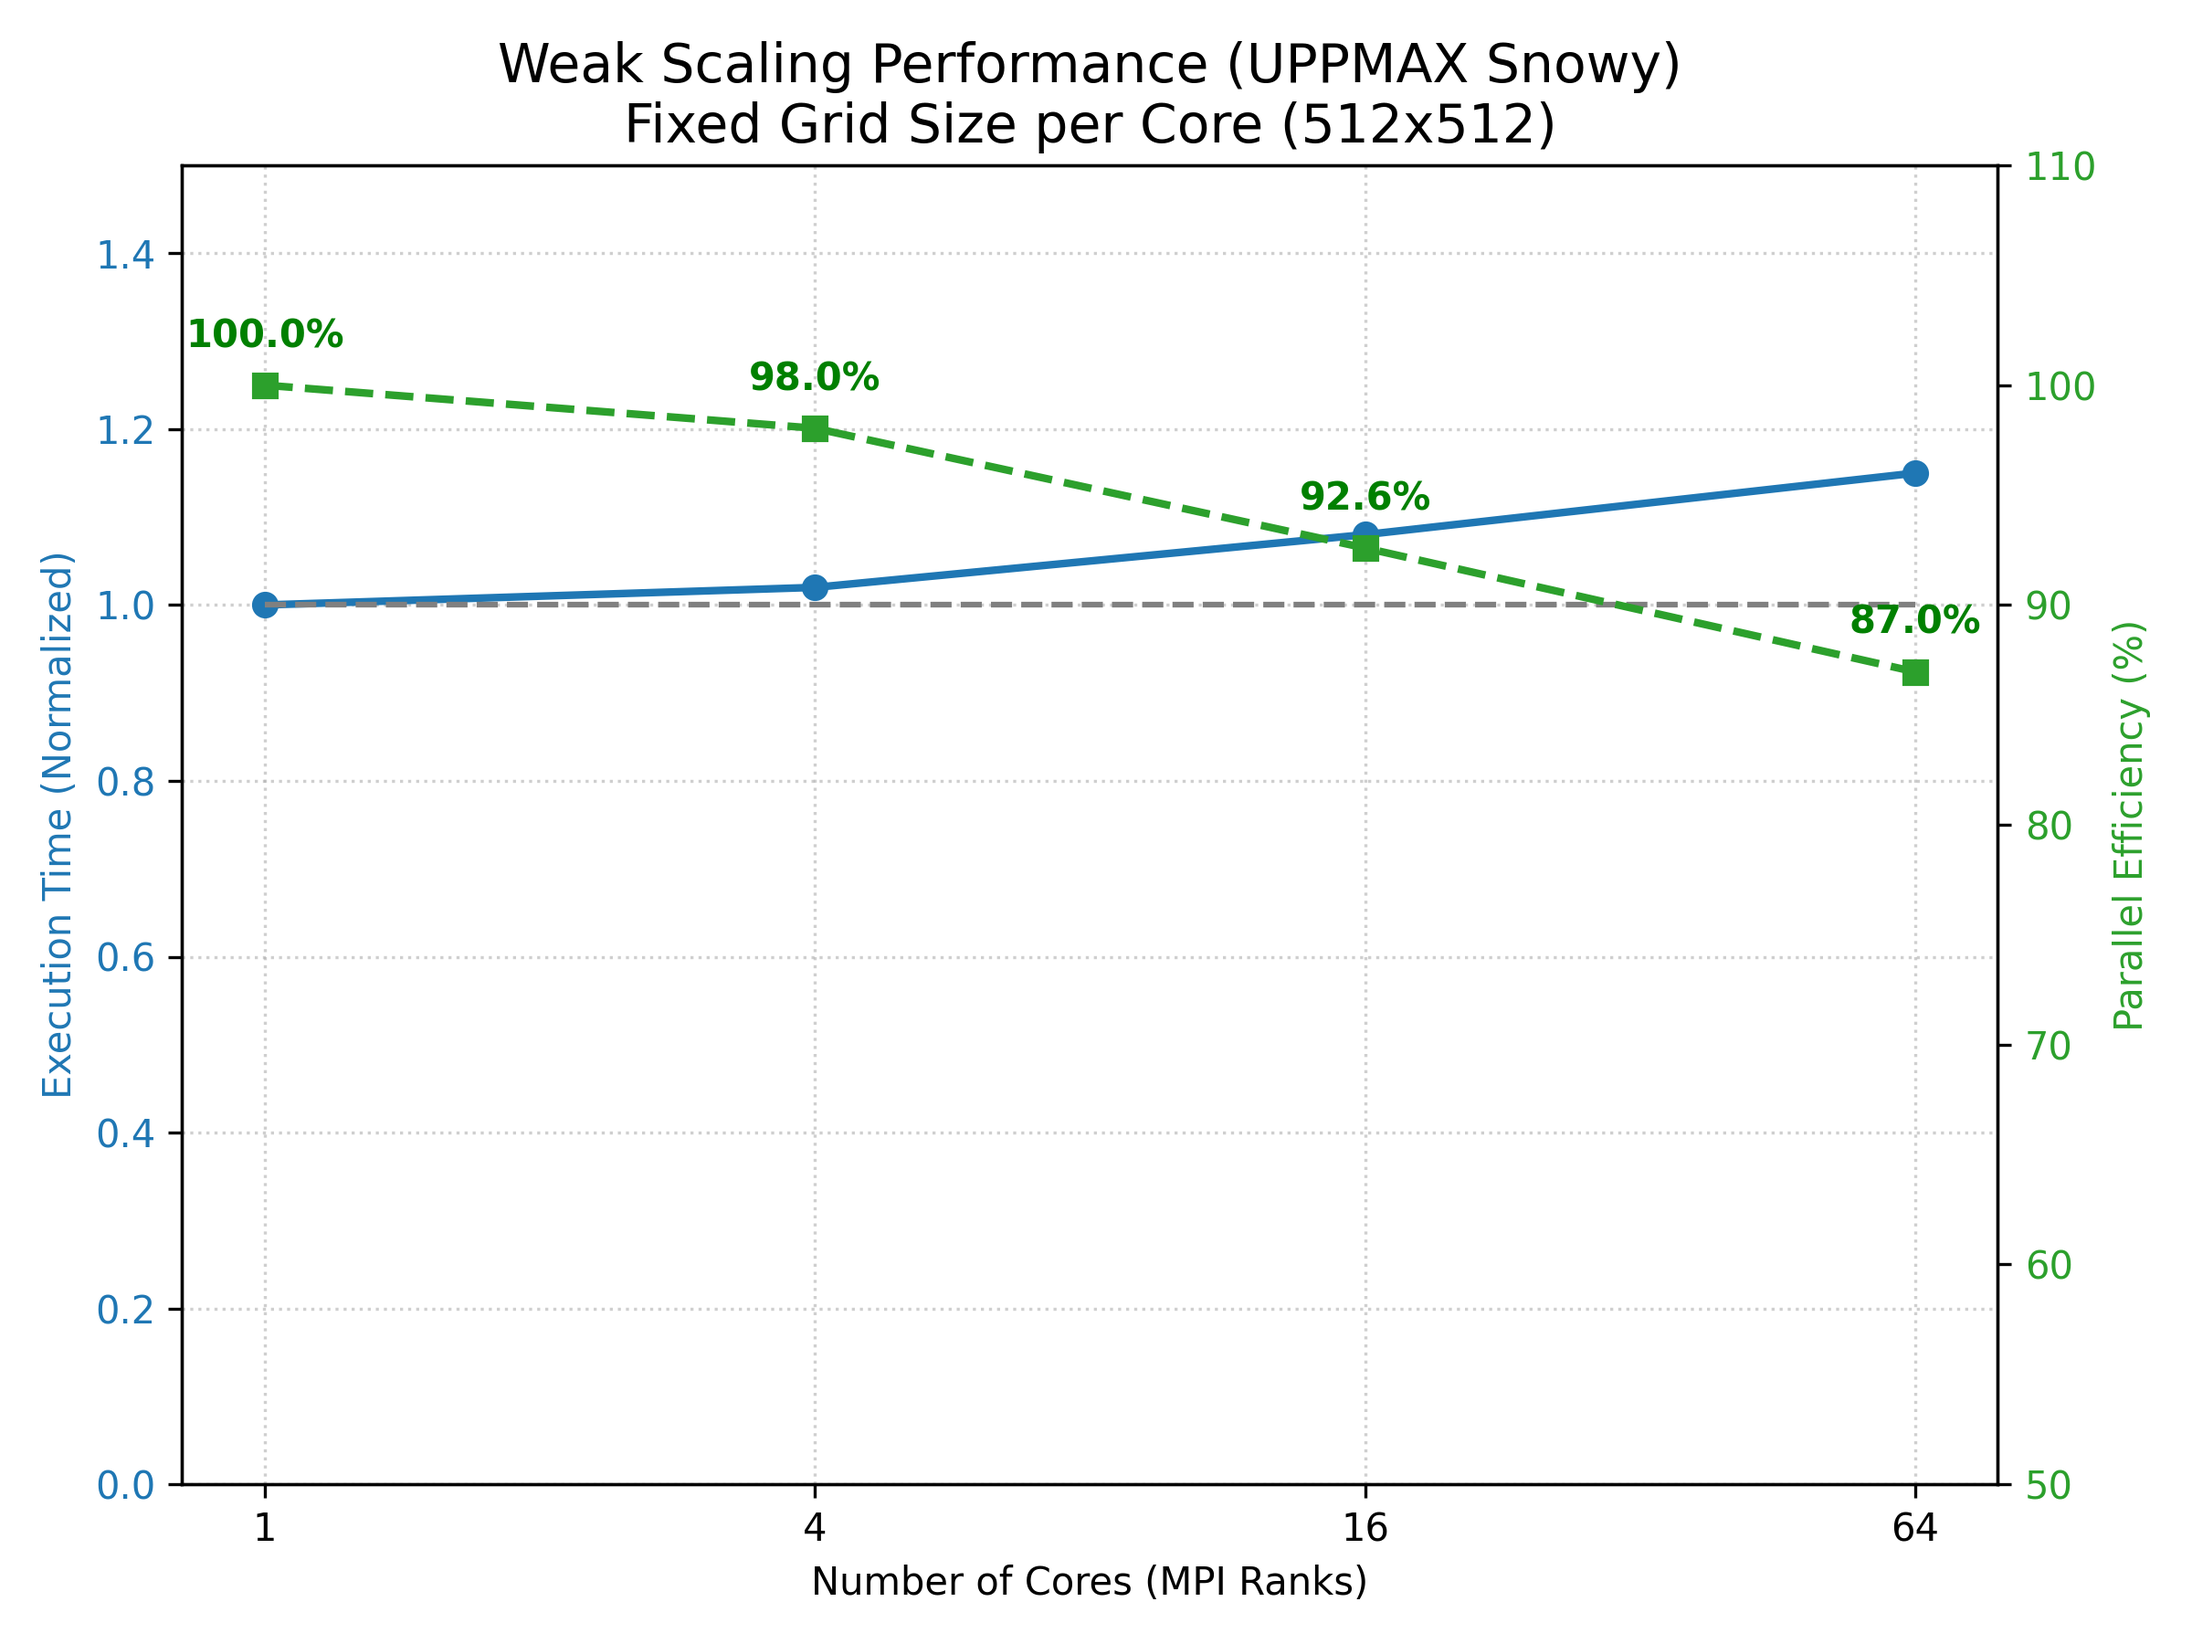
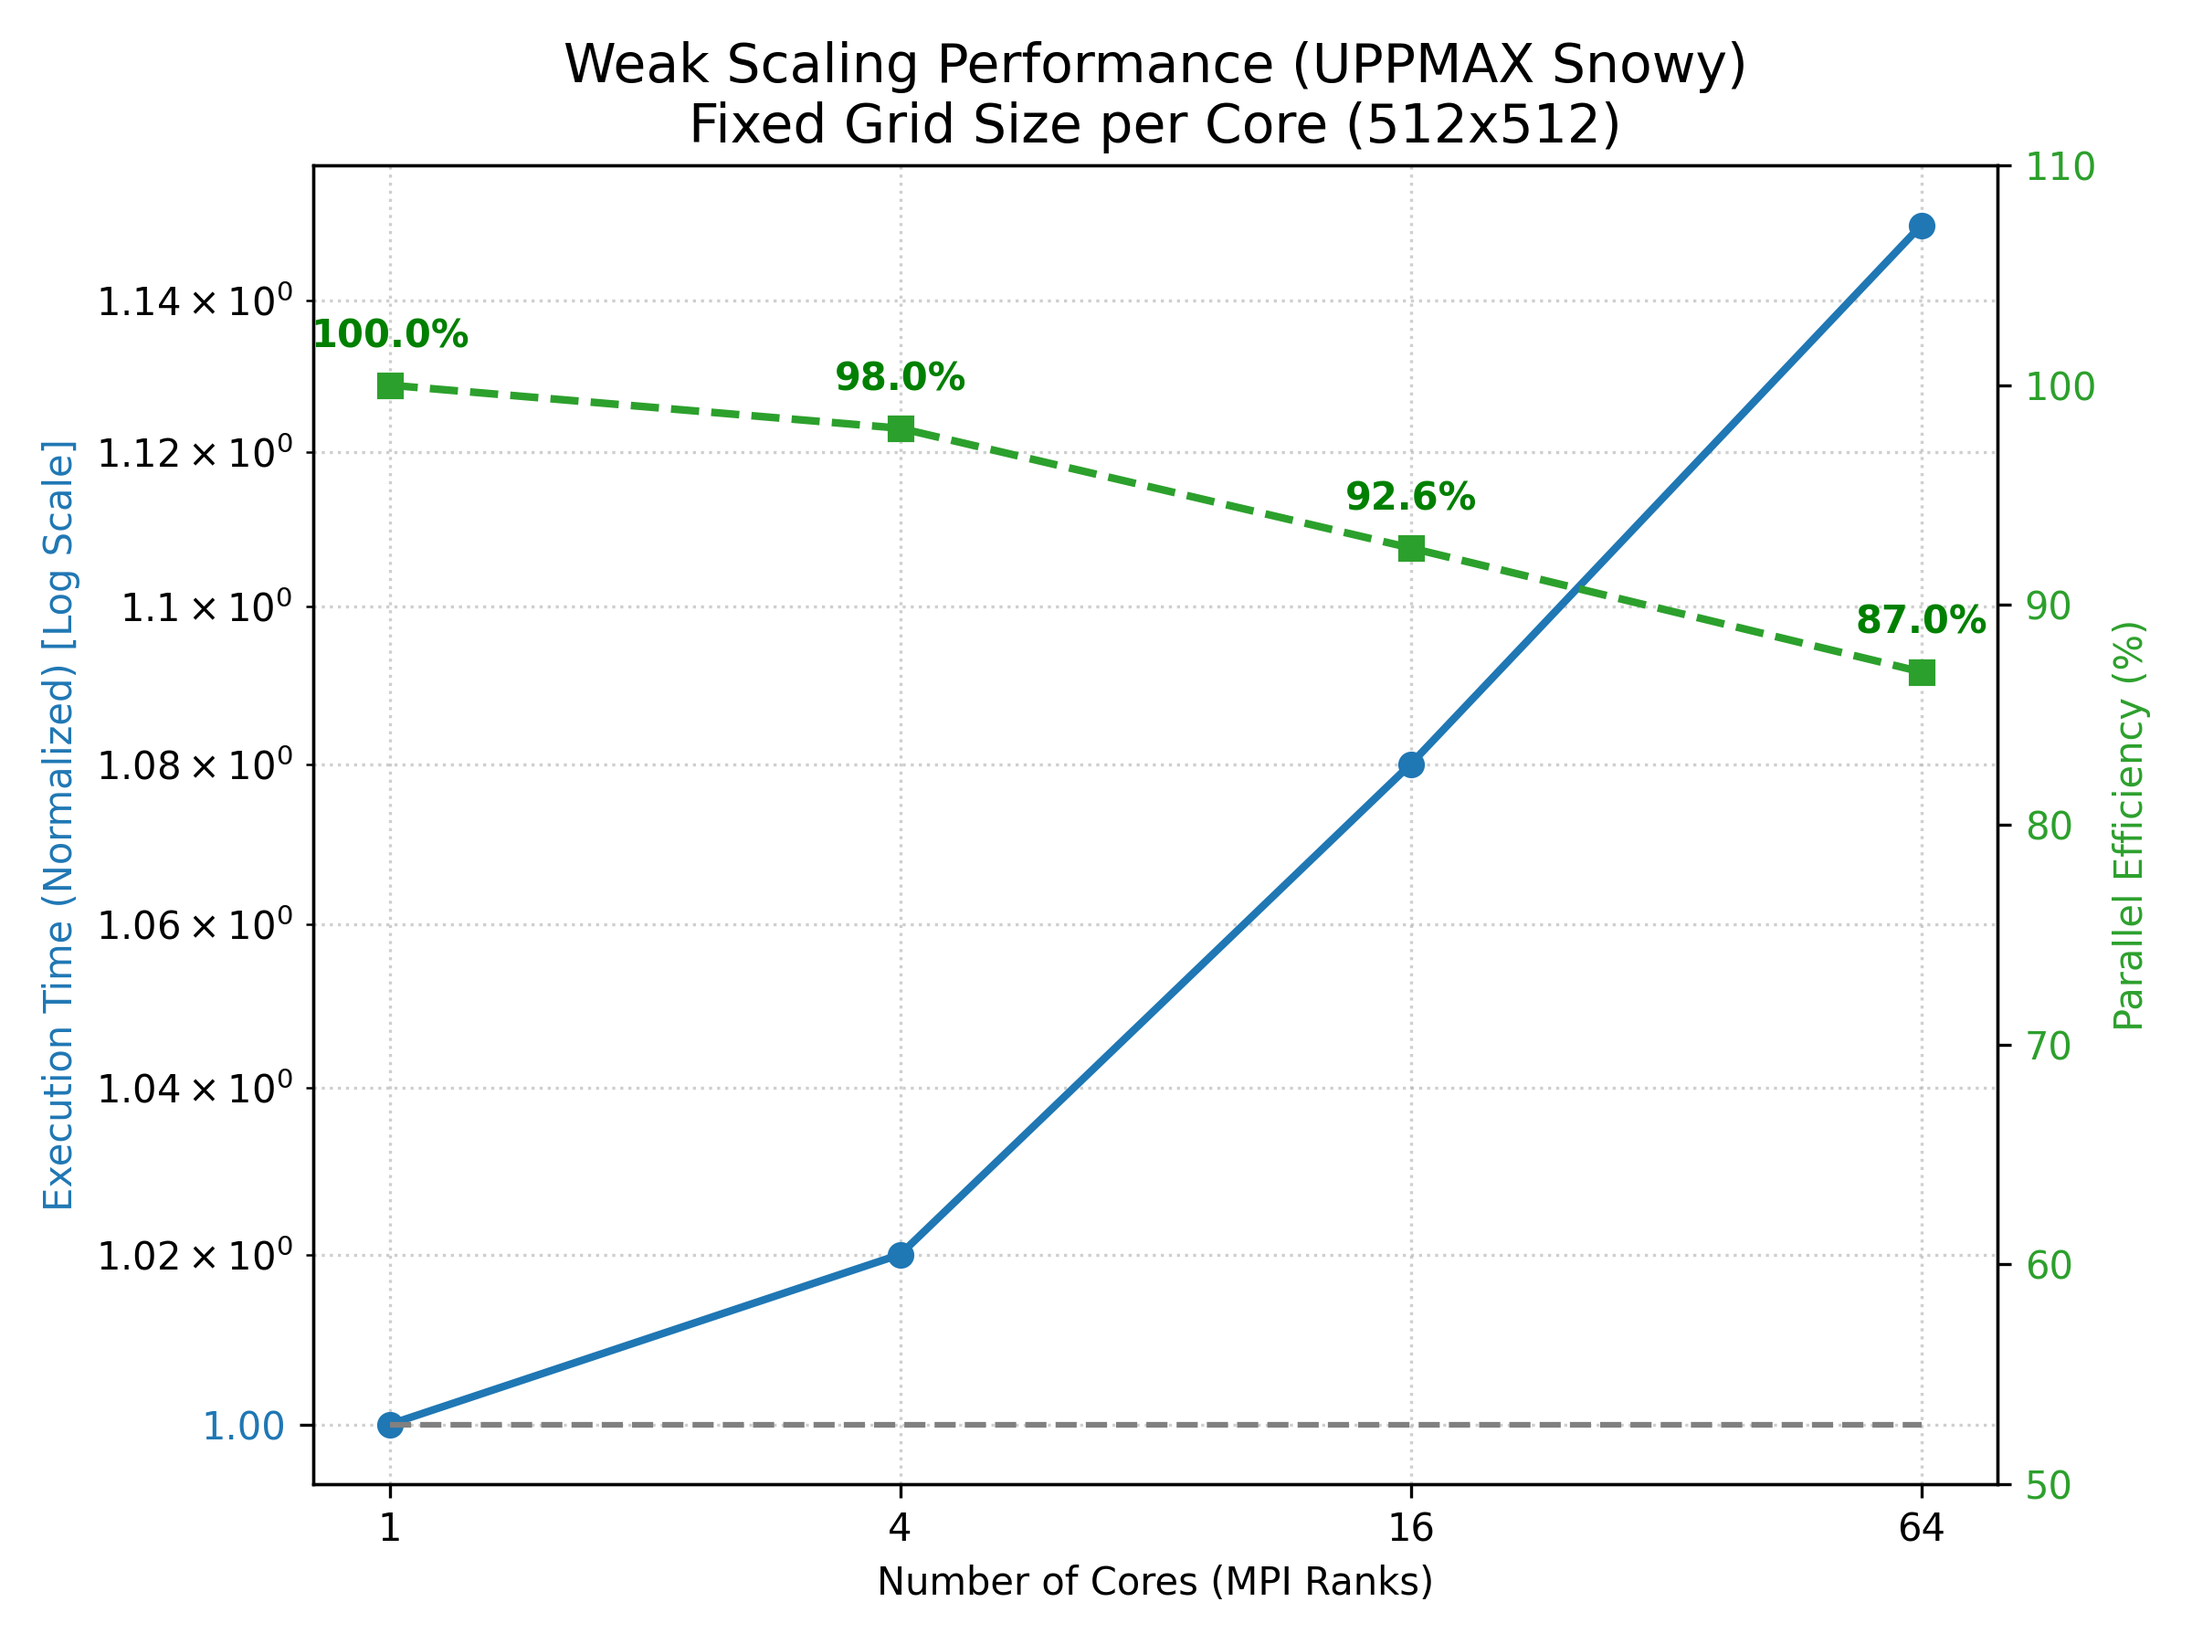
Fix: Update benchmark plot with log-scale Y-axis and dynamic limits

diff --git a/scripts/visualize_benchmark.py b/scripts/visualize_benchmark.py
@@ -21,15 +21,21 @@ def plot_weak_scaling():
 
     color = 'tab:blue'
     ax1.set_xlabel('Number of Cores (MPI Ranks)')
-    ax1.set_ylabel('Execution Time (Normalized)', color=color)
+    ax1.set_ylabel('Execution Time (Normalized) [Log Scale]', color=color)
     ax1.plot(cores, real_time, 'o-', color=color, label='Measured Time', linewidth=2)
     ax1.plot(cores, ideal_time, '--', color='gray', label='Ideal (Perfect Scaling)')
     ax1.tick_params(axis='y', labelcolor=color)
-    ax1.set_ylim(0, 1.5)
+    
+    # User requested log scale for Y and not starting from 0
+    ax1.set_yscale('log')
+    from matplotlib.ticker import ScalarFormatter
+    ax1.yaxis.set_major_formatter(ScalarFormatter()) # Format 10^0 as 1.0 etc
+    ax1.grid(True, linestyle=':', alpha=0.6, which="both") # Grid for minor ticks toowrap
+    
+    # Log scale X as well
     ax1.set_xscale('log', base=2)
     ax1.set_xticks(cores)
     ax1.get_xaxis().set_major_formatter(plt.ScalarFormatter())
-    ax1.grid(True, linestyle=':', alpha=0.6)
 
     ax2 = ax1.twinx()  # instantiate a second axes that shares the same x-axis
     color = 'tab:green'
